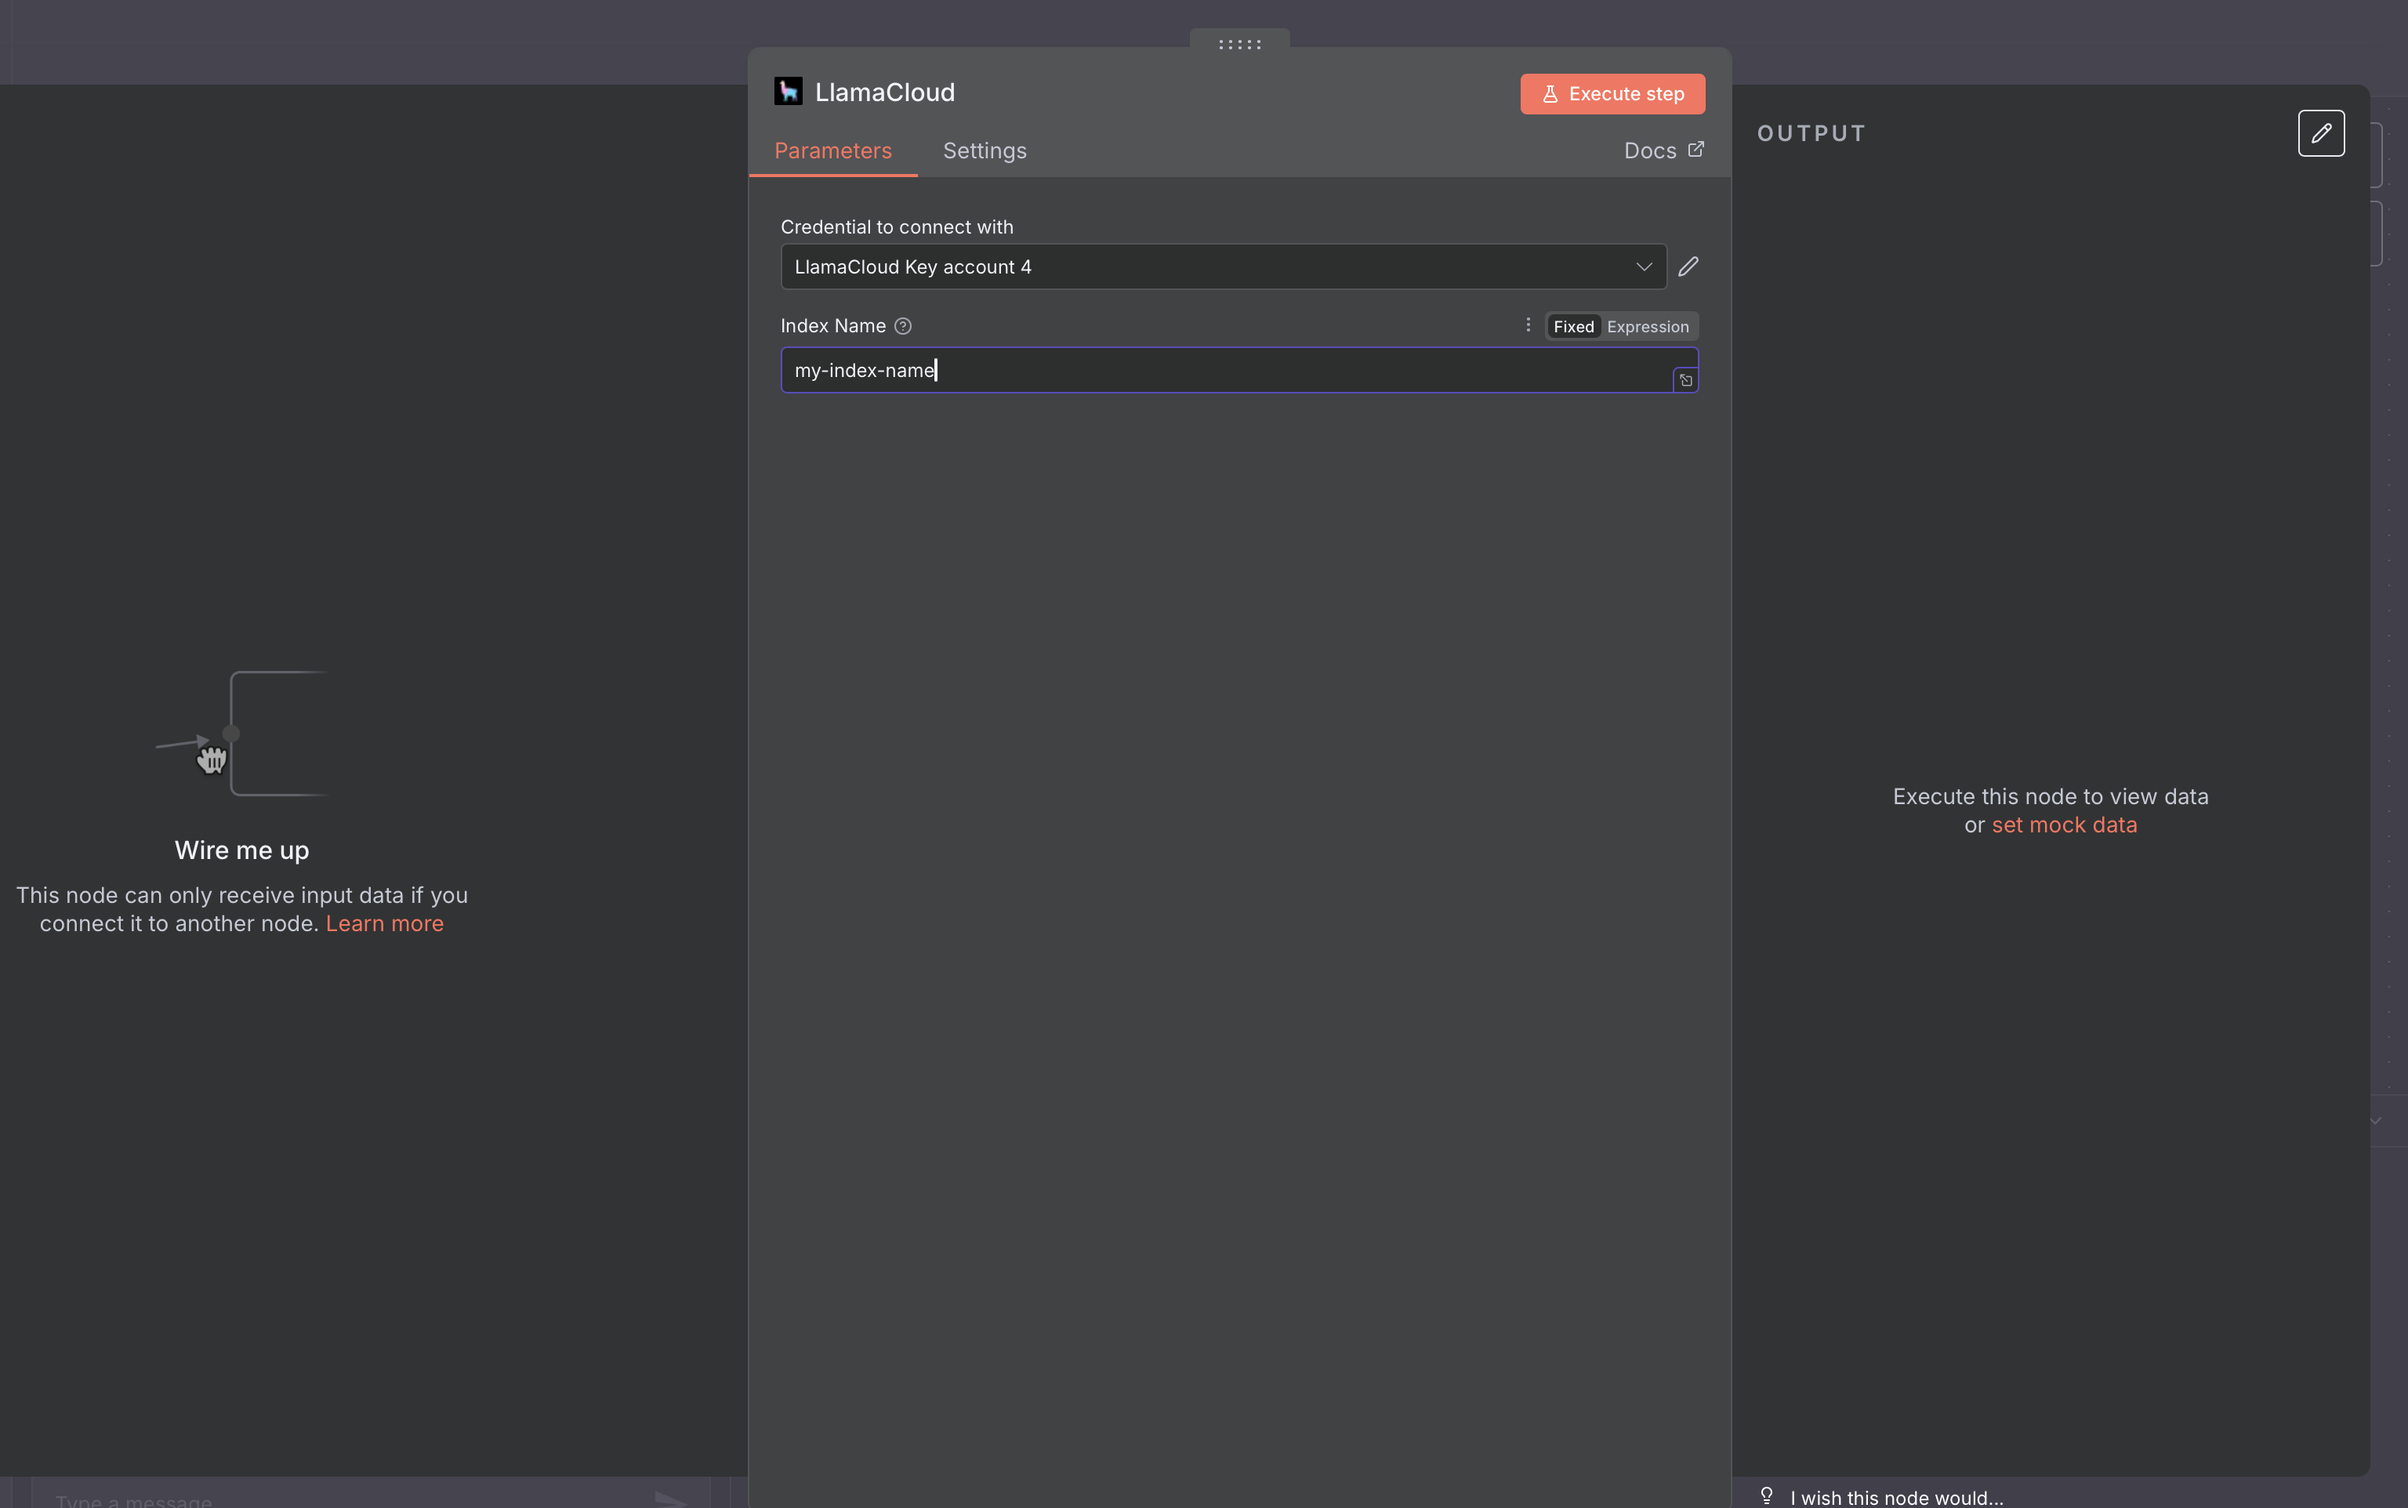
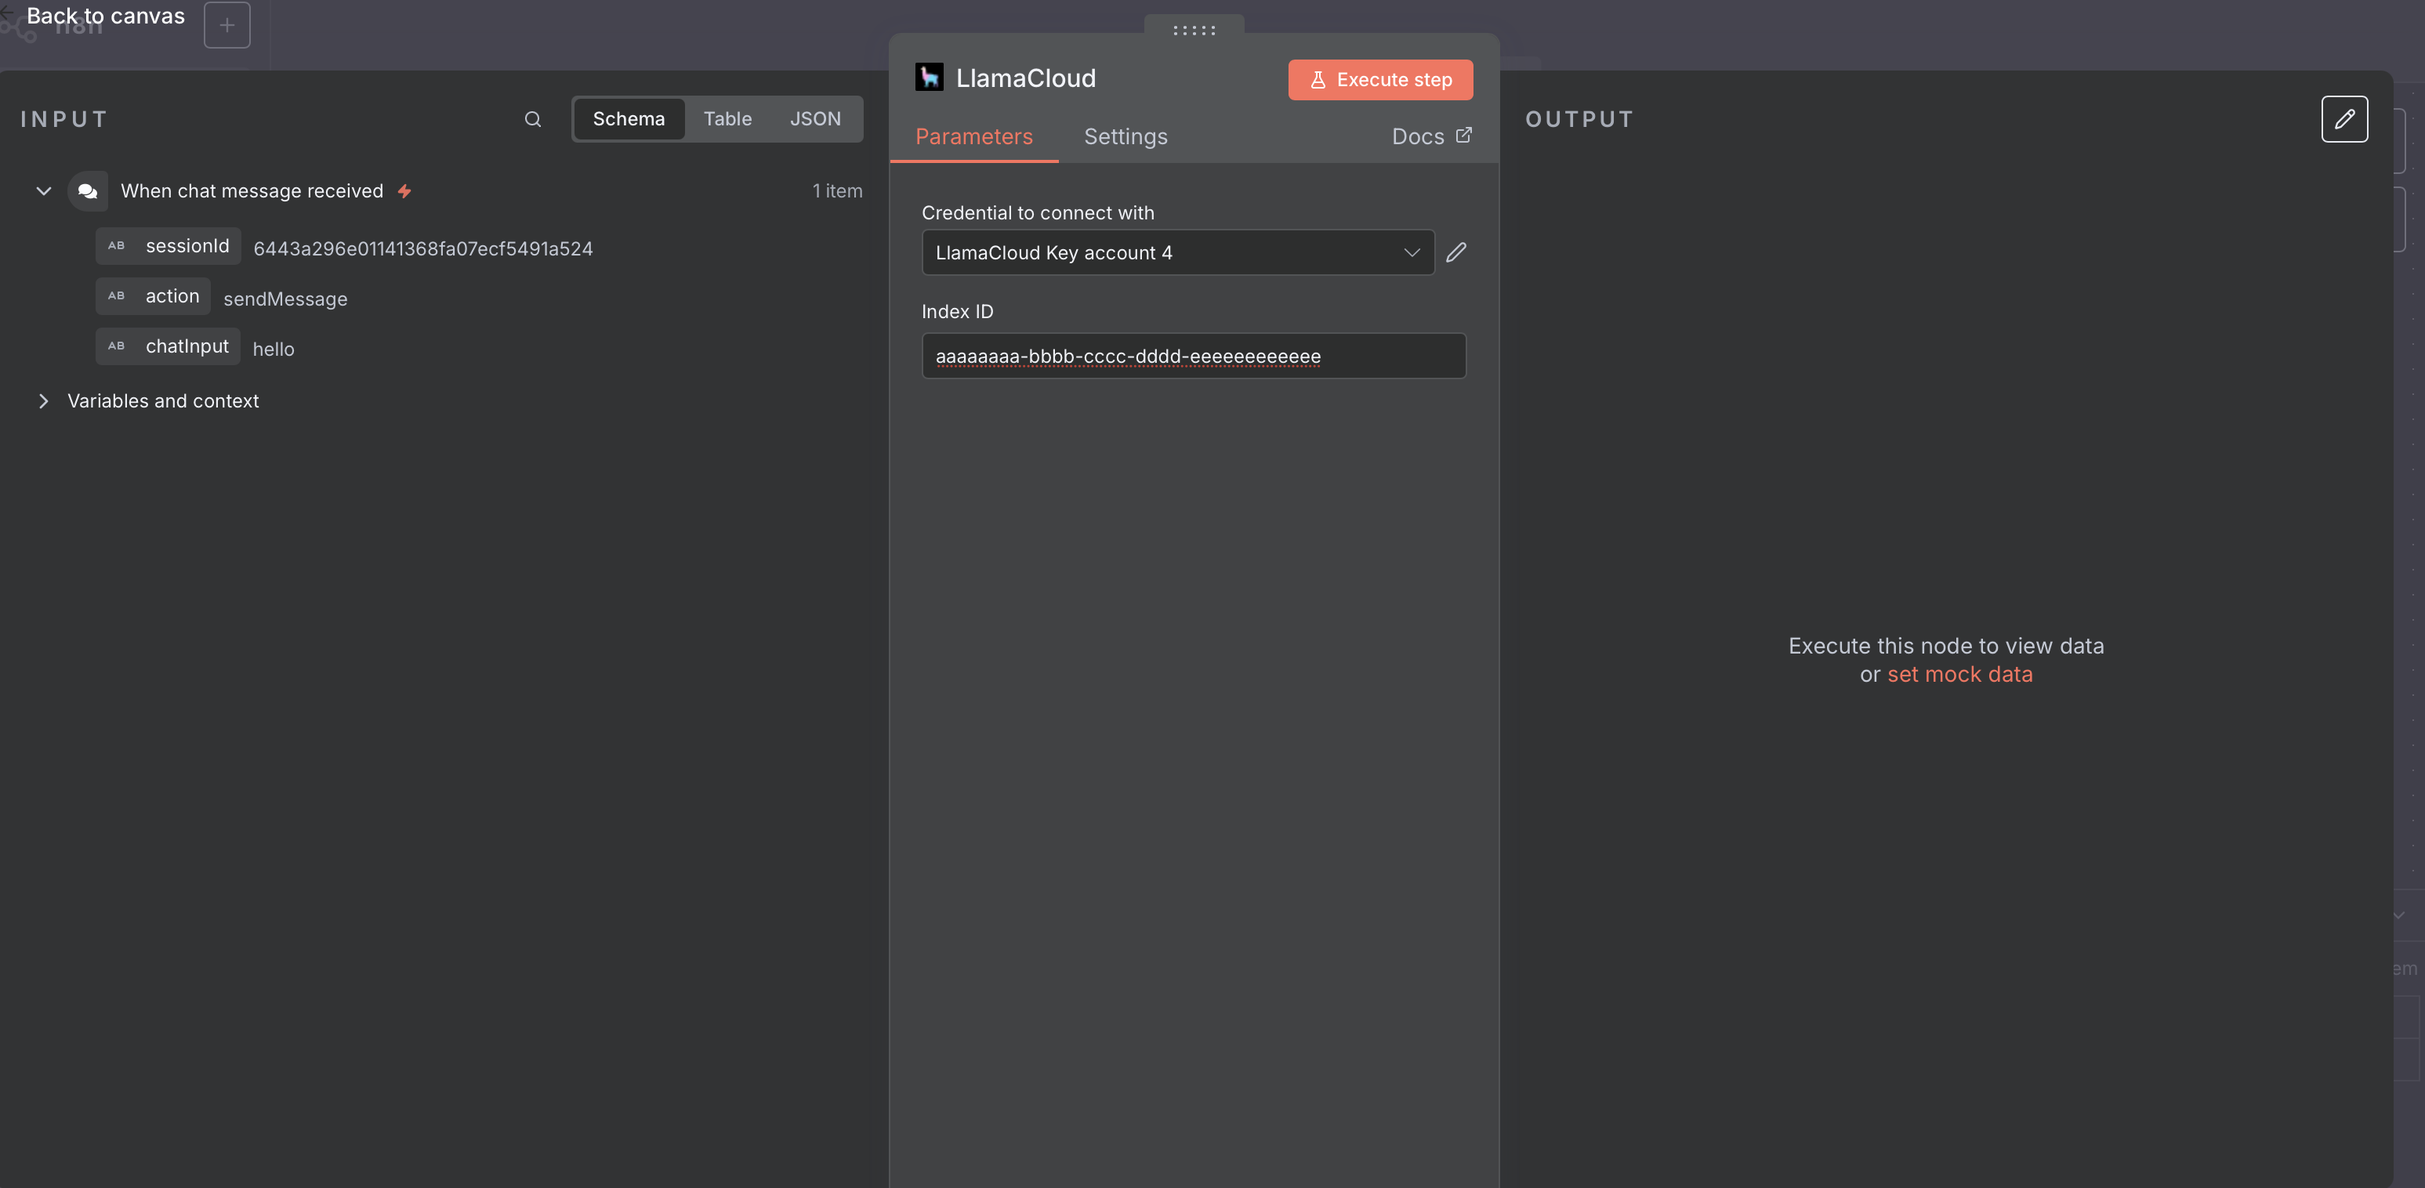
chore: update index guide; fix: parse expand only for text

diff --git a/nodes/LlamaParse/LlamaParse.node.ts b/nodes/LlamaParse/LlamaParse.node.ts
@@ -108,15 +108,9 @@ export class LlamaParse implements INodeType {
 						file_id: fileId,
 						tier: 'fast',
 						version: 'latest',
-						expand: ['markdown', 'text', 'items'],
+						expand: ['text', 'items'],
 					});
-					if (parsed.markdown) {
-						for (const page of parsed.markdown.pages) {
-							if (page.success && 'markdown' in page) {
-								returnData.push({ text: page.markdown });
-							}
-						}
-					} else if (parsed.text) {
+					if (parsed.text) {
 						for (const page of parsed.text.pages) {
 							returnData.push({ text: page.text });
 						}

diff --git a/guides/llamacloud_index.md b/guides/llamacloud_index.md
@@ -12,7 +12,7 @@ The LlamaCloud index node is specifically designed for chat inputs, so you will 
 
 ![Chat Trigger](./assets/chat_trigger.png)
 
-And then you can select the 'LlamaCloud' node, pasting the name of your LlamaCloud Index in the configuration field:
+And then you can select the 'LlamaCloud' node, pasting the ID of your LlamaCloud Index in the configuration field:
 
 ![LlamaCloud Index Setup](./assets/index_pt1.png)
 
